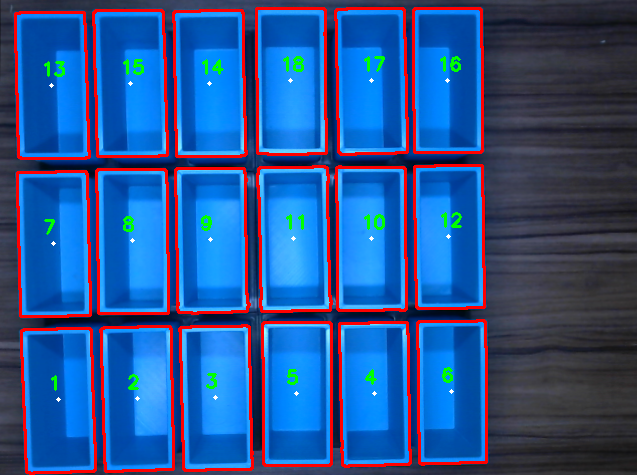
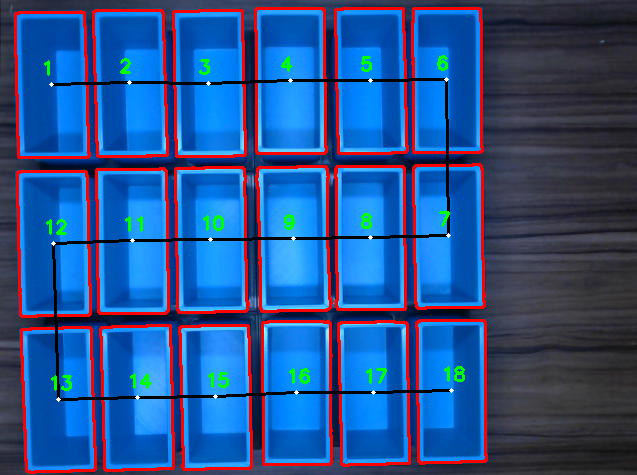
combined image with leadpoints

diff --git a/MainPackage/ImageProcessing/TrayFinder3.py b/MainPackage/ImageProcessing/TrayFinder3.py
@@ -84,12 +84,15 @@ class TrayFinder:
         self.merr, aerr = self.point_filtering(areas, midpoint)
         # print(self.merr)
         # points=[]
-        # for point in self.merr:
-        #     points.append(point.tolist())
+        # for 
+        points = self.Find_Closest(self.merr)
+
+        for i in range(len(points) -1 ):
+            cv2.line(self.contoured_image, tuple(points[i]), tuple(points[i+1]), (0,0,0), thickness=2)
 
         for i in range(len(self.merr)):
-            cv2.putText(self.contoured_image, str(i+1), (self.merr[i] - 10), cv2.FONT_HERSHEY_SIMPLEX, 0.6, (0, 255, 0), 2)
-            cv2.circle(self.contoured_image, (self.merr[i]), radius=2, color=(255, 255, 255), thickness=-1)
+            cv2.putText(self.contoured_image, str(i+1), (points[i] - 10), cv2.FONT_HERSHEY_SIMPLEX, 0.6, (0, 255, 0), 2)
+            cv2.circle(self.contoured_image, (points[i]), radius=2, color=(255, 255, 255), thickness=-1)
             # cv2.putText(self.contoured_image, str(merr[i]), (merr[i]), cv2.FONT_HERSHEY_SIMPLEX, 0.4, (255, 255, 255), 2
 
     def point_filtering(self, areas, midpoint):
@@ -110,7 +113,7 @@ class TrayFinder:
 
         return merr, aerr
 
-    def Find_Closest(points):
+    def Find_Closest(self, points):
 
         def Starter(points):
             start_index = np.argmin(np.sum(points, axis=1))
@@ -197,25 +200,27 @@ class TrayFinder:
         return frame
 
 if __name__ == '__main__':
-    paths = glob.glob("C:/Project/FinalProject/MainPackage/ImageProcessing/images/*.png")
+    paths = glob.glob("MainPackage\ImageProcessing\images\*.png")
     count = 0
-    testing = TrayFinder(paths[0])
-    # testing.ShowImage('raw image', image=testing.image)
-    testing.FindMidpoint()
-    # testing.ShowImage('midpoints', image=testing.contoured_image)
-    testing.Save_Image('result.png', image=testing.contoured_image)
-    print(type(testing.merr))
-    points= []
-    for i in range(len(testing.merr)):
-        # print(type(testing.merr[i].tolist()))
-        points.append(testing.merr[i].tolist())
+    # testing = TrayFinder(paths[0])
+    # # testing.ShowImage('raw image', image=testing.image)
+    # testing.FindMidpoint()
+    # # testing.ShowImage('midpoints', image=testing.contoured_image)
+    # testing.Save_Image('result.png', image=testing.contoured_image)
+    # print(type(testing.merr))
+    # points= []
+    # for i in range(len(testing.merr)):
+    #     # print(type(testing.merr[i].tolist()))
+    #     points.append(testing.merr[i].tolist())
+    # # print(points.shape)
+    # new_points = testing.Find_Closest(points)
     # testing.export_point(points= testing.merr, name='points.csv')
-    # for file_path in paths:
-    #     count += 1
-    #     testing = TrayFinder(file_path)
-    #     testing.Undistorted(testing.image)
-    #     testing.FindMidpoint()
-    #     # testing.ShowImage(f'TestingResults/midpoint{count}', testing.contoured_image)
-    #     # testing.ShowImage(f'gray{count}', testing.morph)
-    #     testing.Save_Image(f'TestingResults/result{count}.png', testing.contoured_image)
-    #     testing.export_points(name = f'TestingResults/Mapping{count}.csv', points= testing.merr)
+    for file_path in paths:
+        count += 1
+        testing = TrayFinder(file_path)
+        testing.Undistorted(testing.image)
+        testing.FindMidpoint()
+        # testing.ShowImage(f'TestingResults/midpoint{count}', testing.contoured_image)
+        # testing.ShowImage(f'gray{count}', testing.morph)
+        testing.Save_Image(f'TestingResults/result{count}.png', testing.contoured_image)
+        testing.export_points(name = f'TestingResults/Mapping{count}.csv', points= testing.merr)

diff --git a/LeadPoint.py b/LeadPoint.py
@@ -30,6 +30,7 @@ def Find_Closest(points):
         return points
     points = Starter(points)
     points = np.array(points)
+    # print(points.shape)
 
     def IsIn(a_point, points):
         a_point_tuple = tuple(a_point)
